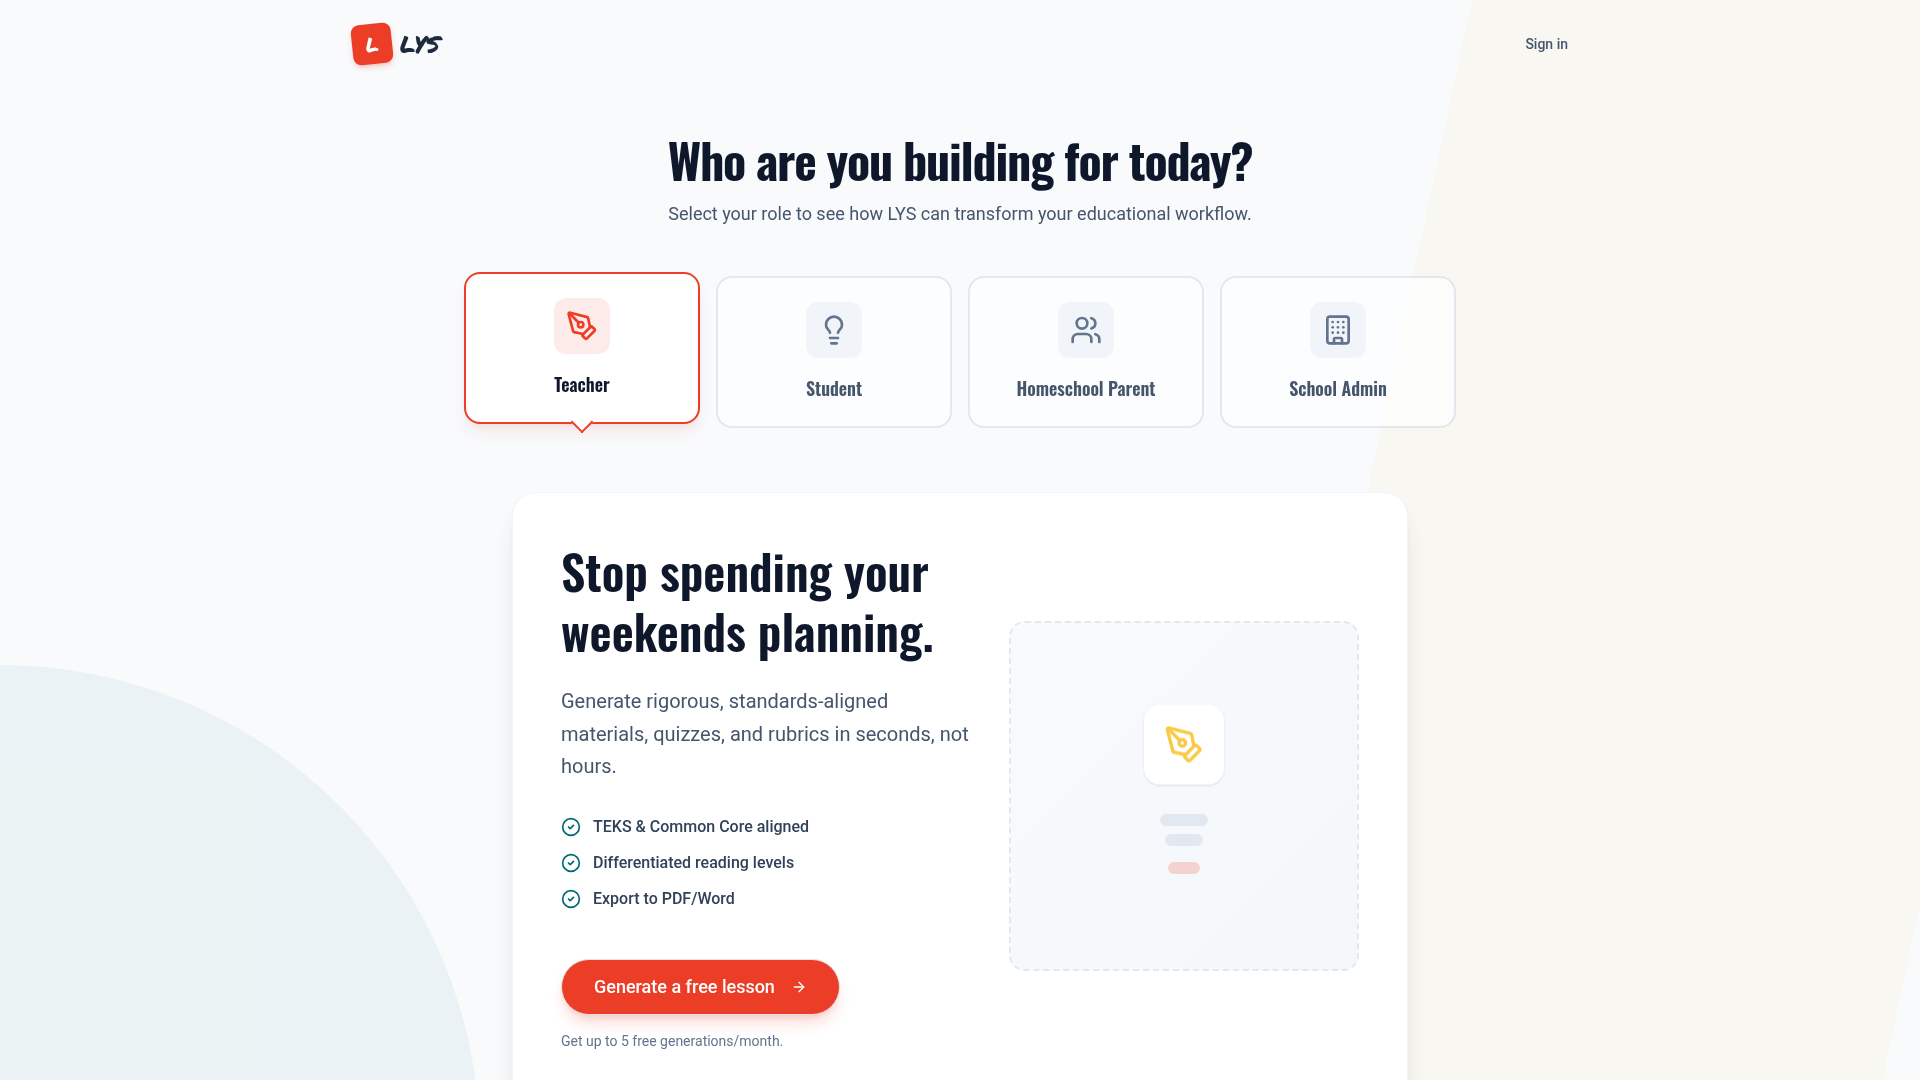
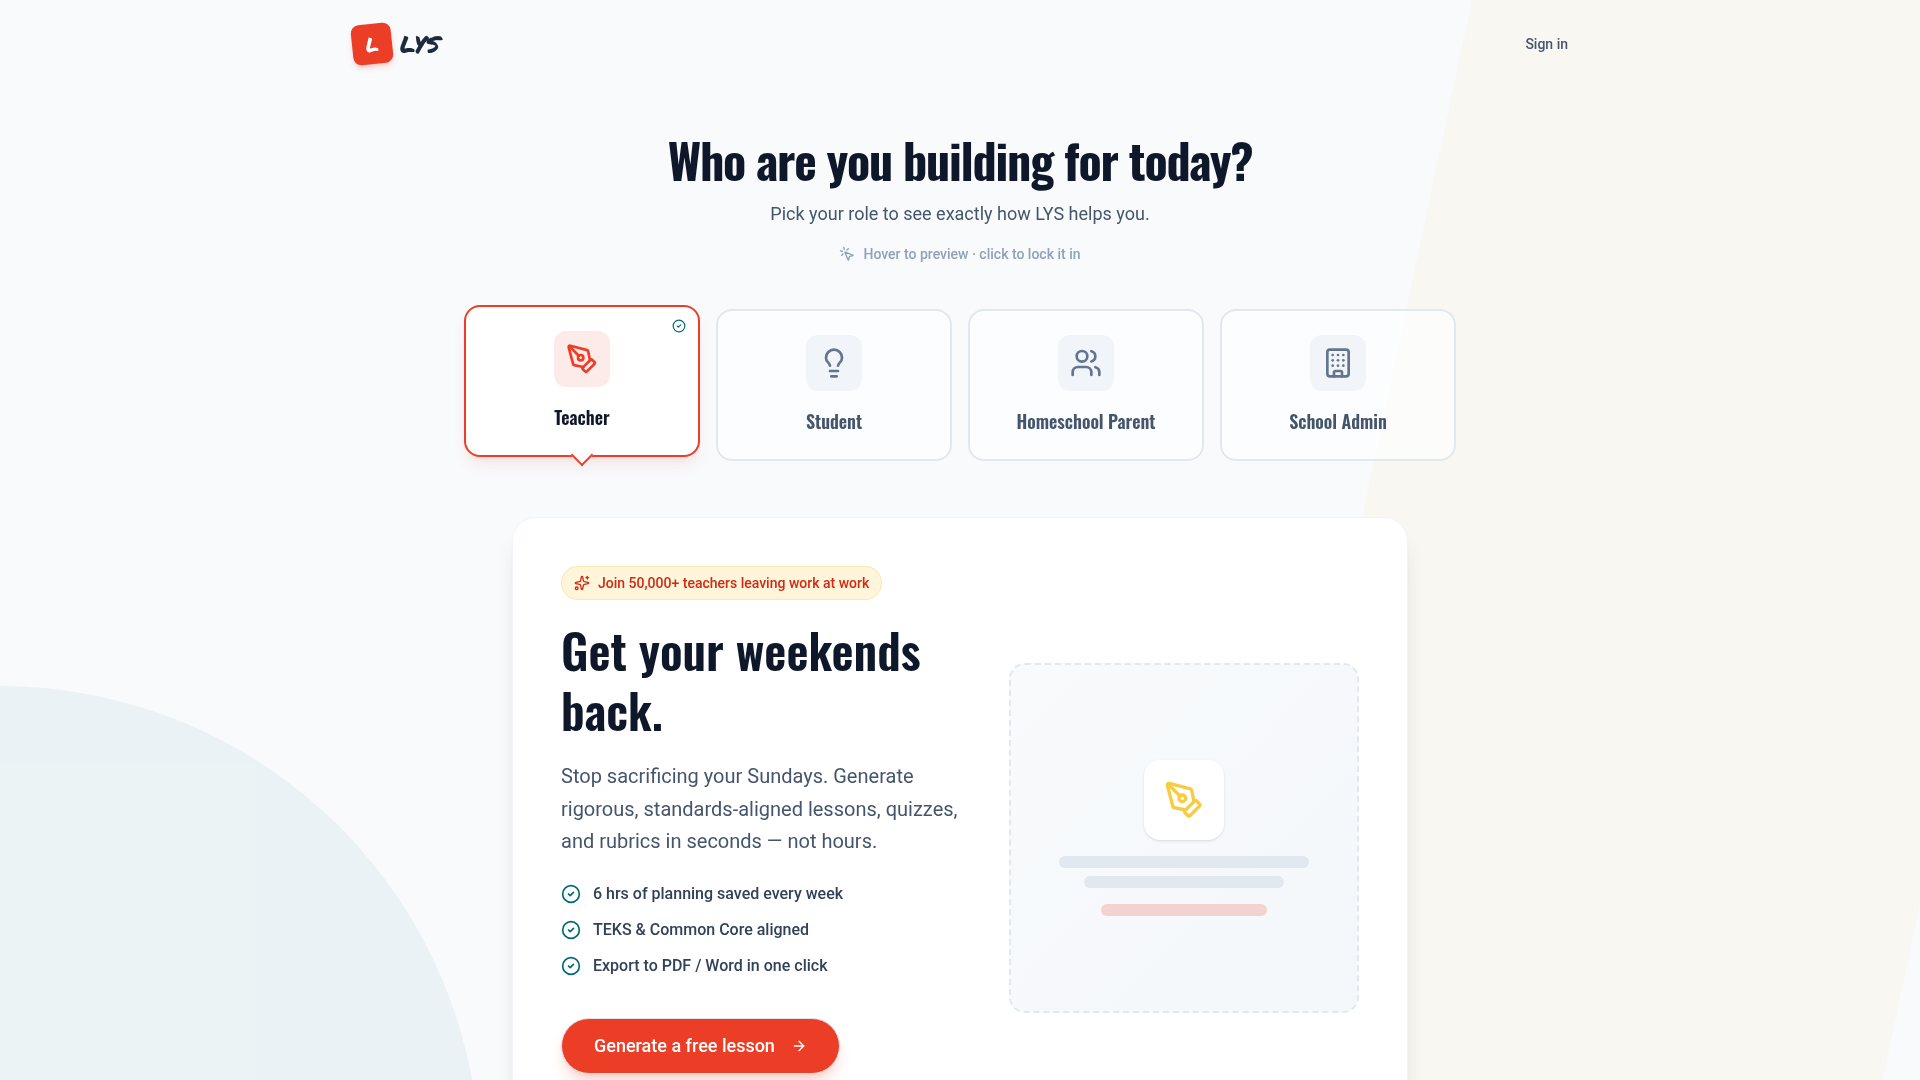
Revise landing page roles with interactive previews and role-specific messaging
Update RoleRouted.tsx component to implement hover-based previewing of role-specific copy and add new role variants, including School Admin. Also, update .agents/memory/MEMORY.md and create .agents/memory/mockup-preview-screenshot-cache.md to document screenshot caching behavior.

Replit-Commit-Author: Agent
Replit-Commit-Session-Id: c68b4c99-fd6c-487d-9158-befb31c191c9
Replit-Commit-Checkpoint-Type: full_checkpoint
Replit-Commit-Event-Id: c919e681-4237-4dc2-9b24-60b28fed0c18
Replit-Commit-Screenshot-Url: https://storage.googleapis.com/screenshot-production-us-central1/26799730-d874-49cd-b30d-22d21f888017/c68b4c99-fd6c-487d-9158-befb31c191c9/pcyTaXK
Replit-Helium-Checkpoint-Created: true

diff --git a/artifacts/mockup-sandbox/src/components/mockups/landing-variants/RoleRouted.tsx b/artifacts/mockup-sandbox/src/components/mockups/landing-variants/RoleRouted.tsx
@@ -9,7 +9,9 @@ import {
   PenTool,
   Lightbulb,
   ArrowRight,
-  CheckCircle2
+  CheckCircle2,
+  Sparkles,
+  MousePointerClick
 } from "lucide-react";
 import "./_group.css";
 
@@ -18,43 +20,52 @@ const ROLES = [
     id: 'teacher',
     label: 'Teacher',
     icon: PenTool,
-    headline: 'Stop spending your weekends planning.',
-    description: 'Generate rigorous, standards-aligned materials, quizzes, and rubrics in seconds, not hours.',
+    proof: 'Join 50,000+ teachers leaving work at work',
+    headline: 'Get your weekends back.',
+    description: "Stop sacrificing your Sundays. Generate rigorous, standards-aligned lessons, quizzes, and rubrics in seconds \u2014 not hours.",
     cta: 'Generate a free lesson',
-    benefits: ['TEKS & Common Core aligned', 'Differentiated reading levels', 'Export to PDF/Word']
+    benefits: ['6 hrs of planning saved every week', 'TEKS & Common Core aligned', 'Export to PDF / Word in one click']
   },
   {
     id: 'student',
     label: 'Student',
     icon: Lightbulb,
-    headline: 'Get unstuck without cheating.',
-    description: 'Personalized AI tutoring that guides you to the answer step-by-step, helping you actually understand the material.',
-    cta: 'Try a practice problem',
-    benefits: ['Step-by-step hints', 'Socratic method guiding', 'Learn at your own pace']
+    proof: 'Trusted by students in 50,000+ classrooms',
+    headline: 'Actually understand it \u2014 tonight.',
+    description: "Stuck on homework? Get clear, step-by-step explanations and practice that meet you where you are \u2014 without just handing you the answer.",
+    cta: 'Try a practice set',
+    benefits: ['Step-by-step hints, not just answers', 'Practice that adapts to you', 'Study guides in seconds']
   },
   {
     id: 'parent',
     label: 'Homeschool Parent',
     icon: Users,
-    headline: 'Customized curriculum for your child.',
-    description: 'Build engaging lesson plans tailored to your child\'s unique pace, interests, and learning style.',
-    cta: 'Create a learning plan',
-    benefits: ['Interest-based modules', 'Flexible pacing', 'Comprehensive subject coverage']
+    proof: 'Loved by thousands of homeschool families',
+    headline: 'Run your homeschool like a pro.',
+    description: "Skip the prep and the guesswork. Get ready-to-teach lessons and activities tailored to your child's pace, level, and interests.",
+    cta: 'Build a lesson free',
+    benefits: ["Lessons matched to your child's level", 'Flexible, day-by-day pacing', 'Every subject, fully covered']
   },
   {
     id: 'admin',
     label: 'School Admin',
     icon: Building,
-    headline: 'Safe AI that empowers your staff.',
-    description: 'Provide your district with FERPA-compliant AI tools that teachers actually want to use, with full administrative oversight.',
-    cta: 'Book a district demo',
-    benefits: ['Data privacy guaranteed', 'Usage analytics dashboard', 'Centralized management']
+    proof: 'Trusted by districts across all 50 states',
+    headline: 'Give every teacher their time back.',
+    description: "Roll out AI lesson planning your staff will actually use \u2014 FERPA-safe, with the visibility and controls your district needs.",
+    cta: 'See it for your school',
+    benefits: ['FERPA-safe, district-wide privacy', 'Usage analytics & oversight', 'Centralized rollout & management']
   }
 ];
 
 export function RoleRouted() {
-  const [activeRoleId, setActiveRoleId] = useState('teacher');
-  const activeRole = ROLES.find(r => r.id === activeRoleId)!;
+  const [selectedRoleId, setSelectedRoleId] = useState('teacher');
+  const [hoveredRoleId, setHoveredRoleId] = useState<string | null>(null);
+
+  // The panel reflects whatever the user is hovering; falls back to the locked-in selection.
+  const displayedRoleId = hoveredRoleId ?? selectedRoleId;
+  const activeRole = ROLES.find(r => r.id === displayedRoleId)!;
+  const isAdmin = activeRole.id === 'admin';
 
   return (
     <div className="min-h-screen bg-slate-50 flex flex-col font-roboto relative overflow-hidden">
@@ -70,55 +81,72 @@ export function RoleRouted() {
           </div>
           <span className="font-marker text-2xl text-slate-800">LYS</span>
         </div>
-        <a href="#" className="text-sm font-medium text-slate-600 hover:text-[hsl(186,98%,23%)] transition-colors">
+        <a href="#" className="text-sm font-medium text-slate-600 hover:text-[hsl(186,98%,23%)] transition-colors" data-testid="link-signin">
           Sign in
         </a>
       </header>
 
       {/* Main Content */}
       <main className="flex-1 flex flex-col items-center pt-12 pb-24 px-4 text-center max-w-5xl mx-auto w-full relative z-10">
-        
-        <div className="mb-12">
+
+        <div className="mb-10">
           <h1 className="font-oswald text-4xl md:text-5xl font-bold text-slate-900 tracking-tight mb-4">
             Who are you building for today?
           </h1>
           <p className="text-lg text-slate-600 max-w-2xl mx-auto">
-            Select your role to see how LYS can transform your educational workflow.
+            Pick your role to see exactly how LYS helps you.
           </p>
+          <div className="inline-flex items-center gap-2 mt-4 text-sm font-medium text-slate-400">
+            <MousePointerClick className="w-4 h-4" />
+            <span>Hover to preview &middot; click to lock it in</span>
+          </div>
         </div>
 
         {/* Role Selector Cards */}
-        <div className="grid grid-cols-2 md:grid-cols-4 gap-4 w-full mb-16">
+        <div className="grid grid-cols-2 md:grid-cols-4 gap-4 w-full mb-14">
           {ROLES.map((role) => {
-            const isActive = activeRoleId === role.id;
+            const isSelected = selectedRoleId === role.id;
+            const isShown = displayedRoleId === role.id;
             const Icon = role.icon;
             return (
               <button
                 key={role.id}
-                onClick={() => setActiveRoleId(role.id)}
-                className={`group relative flex flex-col items-center p-6 rounded-2xl border-2 transition-all duration-300 ease-out text-left focus:outline-none focus-visible:ring-2 focus-visible:ring-offset-2 focus-visible:ring-[hsl(7,84%,54%)]
-                  ${isActive 
-                    ? 'border-[hsl(7,84%,54%)] bg-white shadow-lg shadow-[hsl(7,84%,54%)]/10 -translate-y-1' 
-                    : 'border-slate-200 bg-white/60 hover:bg-white hover:border-[hsl(45,93%,62%)] hover:shadow-md'
+                onClick={() => setSelectedRoleId(role.id)}
+                onMouseEnter={() => setHoveredRoleId(role.id)}
+                onMouseLeave={() => setHoveredRoleId(null)}
+                onFocus={() => setHoveredRoleId(role.id)}
+                onBlur={() => setHoveredRoleId(null)}
+                data-testid={`button-role-${role.id}`}
+                className={`group relative flex flex-col items-center p-6 rounded-2xl border-2 transition-all duration-300 ease-out focus:outline-none focus-visible:ring-2 focus-visible:ring-offset-2 focus-visible:ring-[hsl(7,84%,54%)]
+                  ${isShown
+                    ? 'border-[hsl(7,84%,54%)] bg-white shadow-lg shadow-[hsl(7,84%,54%)]/10 -translate-y-1'
+                    : 'border-slate-200 bg-white/60 hover:border-[hsl(45,93%,62%)] hover:shadow-md'
                   }
                 `}
               >
                 <div className={`
                   p-3 rounded-xl mb-4 transition-colors duration-300
-                  ${isActive 
-                    ? 'bg-[hsl(7,84%,54%)]/10 text-[hsl(7,84%,54%)]' 
-                    : 'bg-slate-100 text-slate-500 group-hover:bg-[hsl(45,93%,62%)]/20 group-hover:text-[hsl(45,93%,62%)]'
+                  ${isShown
+                    ? 'bg-[hsl(7,84%,54%)]/10 text-[hsl(7,84%,54%)]'
+                    : 'bg-slate-100 text-slate-500'
                   }
                 `}>
                   <Icon className="w-8 h-8" />
                 </div>
                 <span className={`font-oswald text-lg font-semibold transition-colors duration-300
-                  ${isActive ? 'text-slate-900' : 'text-slate-600 group-hover:text-slate-900'}
+                  ${isShown ? 'text-slate-900' : 'text-slate-600'}
                 `}>
                   {role.label}
                 </span>
-                
-                {isActive && (
+
+                {/* "Selected" tag so the locked-in choice is clear even while previewing others */}
+                {isSelected && (
+                  <span className="absolute top-3 right-3 flex items-center gap-1 text-[10px] font-bold uppercase tracking-wide text-[hsl(186,98%,23%)]">
+                    <CheckCircle2 className="w-3.5 h-3.5" />
+                  </span>
+                )}
+
+                {isShown && (
                   <div className="absolute -bottom-2 left-1/2 transform -translate-x-1/2 w-4 h-4 bg-white border-b-2 border-r-2 border-[hsl(7,84%,54%)] rotate-45" />
                 )}
               </button>
@@ -127,17 +155,26 @@ export function RoleRouted() {
         </div>
 
         {/* Dynamic Content Panel */}
-        <div className="bg-white rounded-3xl p-8 md:p-12 shadow-xl border border-slate-100 w-full max-w-4xl text-left flex flex-col md:flex-row gap-10 items-center transform transition-all duration-500">
-          
-          <div className="flex-1 space-y-6">
+        <div
+          key={activeRole.id}
+          className="bg-white rounded-3xl p-8 md:p-12 shadow-xl border border-slate-100 w-full max-w-4xl text-left flex flex-col md:flex-row gap-10 items-center transition-all duration-300 animate-[fadeIn_0.3s_ease-out]"
+          data-testid={`panel-role-${activeRole.id}`}
+        >
+
+          <div className="flex-1 space-y-5">
+            <div className="inline-flex items-center gap-2 px-3 py-1.5 rounded-full bg-[hsl(45,93%,62%)]/20 text-[hsl(7,84%,45%)] font-medium text-sm border border-[hsl(45,93%,62%)]/30">
+              <Sparkles className="w-4 h-4" />
+              <span>{activeRole.proof}</span>
+            </div>
+
             <h2 className="font-oswald text-4xl md:text-5xl font-semibold text-slate-900 leading-tight">
               {activeRole.headline}
             </h2>
             <p className="text-xl text-slate-600 leading-relaxed font-roboto">
               {activeRole.description}
             </p>
-            
-            <ul className="space-y-3 pt-2">
+
+            <ul className="space-y-3 pt-1">
               {activeRole.benefits.map((benefit, idx) => (
                 <li key={idx} className="flex items-center gap-3 text-slate-700 font-medium">
                   <CheckCircle2 className="w-5 h-5 text-[hsl(186,98%,23%)] shrink-0" />
@@ -146,31 +183,31 @@ export function RoleRouted() {
               ))}
             </ul>
 
-            <div className="pt-6">
-              <Button 
+            <div className="pt-5">
+              <Button
                 className="bg-[hsl(7,84%,54%)] hover:bg-[hsl(7,84%,45%)] text-white text-lg h-14 px-8 rounded-full shadow-lg shadow-[hsl(7,84%,54%)]/20 hover:shadow-xl hover:-translate-y-0.5 transition-all group w-full md:w-auto"
+                data-testid={`button-cta-${activeRole.id}`}
               >
                 {activeRole.cta}
                 <ArrowRight className="ml-2 w-5 h-5 group-hover:translate-x-1 transition-transform" />
               </Button>
               <p className="text-sm text-slate-500 mt-4 text-center md:text-left">
-                Get up to 5 free generations/month.
+                {isAdmin ? 'Personalized walkthrough \u2014 no commitment.' : 'Get up to 5 free generations/month.'}
               </p>
             </div>
           </div>
 
-          <div className="w-full md:w-[350px] aspect-square bg-slate-50 rounded-2xl border-2 border-dashed border-slate-200 flex items-center justify-center p-8 relative overflow-hidden group">
-              {/* Abstract Representation of the tool in action */}
-              <div className="absolute inset-0 bg-gradient-to-br from-transparent to-slate-100 opacity-50"></div>
-              
-              <div className="relative z-10 flex flex-col items-center justify-center text-center space-y-4">
-                 <div className="w-20 h-20 bg-white rounded-2xl shadow-sm flex items-center justify-center animate-bounce duration-3000">
+          <div className="w-full md:w-[350px] aspect-square bg-slate-50 rounded-2xl border-2 border-dashed border-slate-200 flex items-center justify-center p-8 relative overflow-hidden">
+              <div className="absolute inset-0 bg-gradient-to-br from-transparent to-slate-100 opacity-50" />
+
+              <div className="relative z-10 flex flex-col items-center justify-center text-center space-y-4 w-full">
+                 <div className="w-20 h-20 bg-white rounded-2xl shadow-sm flex items-center justify-center">
                     <activeRole.icon className="w-10 h-10 text-[hsl(45,93%,62%)]" />
                  </div>
                  <div className="space-y-2 w-full px-4">
-                    <div className="h-3 bg-slate-200 rounded-full w-full"></div>
-                    <div className="h-3 bg-slate-200 rounded-full w-4/5 mx-auto"></div>
-                    <div className="h-3 bg-[hsl(7,84%,54%)]/20 rounded-full w-2/3 mx-auto mt-4"></div>
+                    <div className="h-3 bg-slate-200 rounded-full w-full" />
+                    <div className="h-3 bg-slate-200 rounded-full w-4/5 mx-auto" />
+                    <div className="h-3 bg-[hsl(7,84%,54%)]/20 rounded-full w-2/3 mx-auto mt-4" />
                  </div>
               </div>
           </div>
@@ -178,7 +215,7 @@ export function RoleRouted() {
         </div>
 
         {/* Trust strip */}
-        <div className="mt-20 flex flex-wrap items-center justify-center gap-x-8 gap-y-4 text-sm font-medium text-slate-500 bg-white/80 backdrop-blur px-8 py-4 rounded-full shadow-sm border border-slate-200/60">
+        <div className="mt-16 flex flex-wrap items-center justify-center gap-x-8 gap-y-4 text-sm font-medium text-slate-500 bg-white/80 backdrop-blur px-8 py-4 rounded-full shadow-sm border border-slate-200/60">
           <div className="flex items-center gap-2">
             <GraduationCap className="h-5 w-5 text-[hsl(186,98%,23%)]" />
             <span>Used by 50,000+ educators</span>
@@ -196,6 +233,13 @@ export function RoleRouted() {
         </div>
 
       </main>
+
+      <style>{`
+        @keyframes fadeIn {
+          from { opacity: 0; transform: translateY(6px); }
+          to { opacity: 1; transform: translateY(0); }
+        }
+      `}</style>
     </div>
   );
 }

diff --git a/.agents/memory/mockup-preview-screenshot-cache.md b/.agents/memory/mockup-preview-screenshot-cache.md
@@ -1,0 +1,22 @@
+---
+name: Mockup preview screenshot cache
+description: external_url screenshots of mockup-sandbox previews are cached by URL; bust with a query param after edits
+---
+
+# Mockup preview screenshots are cached by URL
+
+When verifying a mockup-sandbox component change via the `screenshot` tool
+(`type: external_url`) against a `/__mockup/preview/<folder>/<Component>` URL,
+the screenshot service returns a **stale cached image** if the same URL was
+captured before — even after editing the component file AND restarting the
+mockup workflow.
+
+**Symptom:** identical screenshots showing the OLD component, while the file on
+disk clearly has the new code.
+
+**Fix:** append a cache-busting query param to the URL, e.g.
+`.../RoleRouted?v=2`. The fresh capture then shows the updated component.
+
+**Why:** the external screenshot path caches by exact URL; the file/server were
+never the problem. Don't waste cycles re-restarting the workflow or re-curling
+modules — just bust the URL.

diff --git a/.agents/memory/MEMORY.md b/.agents/memory/MEMORY.md
@@ -1,3 +1,1 @@
-- [Email digest + scheduler pattern](email-digest-pattern.md) — recurring admin email alerts share emailTransport.ts + digestScheduler.ts + a per-period log table for idempotency; reuse, don't reinvent.
-- [Curriculum doc original files](curriculum-doc-original-files.md) — uploaded PDF/HTML source files live in Postgres bytea (not object storage) by user decision; powers the moderation side-by-side viewer.
-- [Role shortcuts consistency](role-shortcuts-consistency.md) — Home/Sidebar/Settings must agree on role visibility; site_admin is system-level (/system-admin, not /admin).
+- [Mockup preview screenshot cache](mockup-preview-screenshot-cache.md) — external_url screenshots of /__mockup/preview/ are cached by URL; append ?v=N to force a fresh capture after edits.